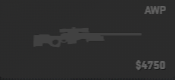
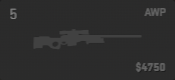
Auto buy * finished adding all items * caching loaded images so it will load faster for next time * fixes for checking already selected custom weapon * auto buy image is now not overlapped with tabcontrol * centered the radio buttons group * using native method for copying image region

diff --git a/src/CSAuto/GUIWindow.xaml b/src/CSAuto/GUIWindow.xaml
@@ -260,18 +260,18 @@
             </mahapps:MetroTabItem>
             <mahapps:MetroTabItem Header="menu_autobuy">
                 <Grid>
-                    <TabControl Panel.ZIndex="1" x:Name="AutoBuyTab" VerticalAlignment="Top" SelectionChanged="AutoBuyTab_SelectionChanged" mahapps:TabControlHelper.Underlined="SelectedTabItem" mahapps:TabControlHelper.UnderlinePlacement="Bottom">
+                    <TabControl Panel.ZIndex="1" x:Name="AutoBuyTab" VerticalAlignment="Top" SelectionChanged="AutoBuyTab_SelectionChanged" mahapps:TabControlHelper.Underlined="SelectedTabItem" mahapps:TabControlHelper.UnderlinePlacement="Bottom" Height="48">
                         <mahapps:MetroTabItem Header="team_ct"/>
                         <mahapps:MetroTabItem Header="team_t"/>
                     </TabControl>
-                    <Image Panel.ZIndex="0" x:Name="AutoBuyImage" MouseDown="AutoBuyImage_MouseDownAsync" HorizontalAlignment="Center" VerticalAlignment="Center"/>
+                    <Image Panel.ZIndex="0" x:Name="AutoBuyImage" MouseDown="AutoBuyImage_MouseDown" HorizontalAlignment="Center" VerticalAlignment="Center" Margin="0,48,0,0"/>
                     <Grid x:Name="BuyItemProperties" Visibility="Hidden">
                         <StackPanel>
                             <TextBlock x:Name="BuyItemName" Text="Name"></TextBlock>
                             <CheckBox  x:Name="BuyItemEnabledCheckBox" Content="text_enabled"></CheckBox>
                             <TextBlock Text="text_itempriority"></TextBlock>
                             <mahapps:NumericUpDown x:Name="BuyItemPriority"/>
-                            <StackPanel Orientation="Vertical" x:Name="SelectedCustomItemPropery" Visibility="Hidden">
+                            <StackPanel Orientation="Vertical" x:Name="SelectedCustomItemPropery" Visibility="Hidden" HorizontalAlignment="Center" Margin="0,15,0,0">
                                 <TextBlock Text="text_selecteditem"></TextBlock>
                                 <StackPanel Margin="15,0,0,0"/>
                             </StackPanel>

diff --git a/src/CSAuto/AutoBuyMenu.cs b/src/CSAuto/AutoBuyMenu.cs
@@ -5,13 +5,9 @@ using Murky.Utils.CSGO;
 using Newtonsoft.Json;
 using System;
 using System.Collections.Generic;
-using System.Collections.ObjectModel;
 using System.Drawing;
-using System.Drawing.Imaging;
 using System.IO;
 using System.Linq;
-using System.Text;
-using System.Threading.Tasks;
 using System.Windows.Interop;
 using System.Windows.Media.Imaging;
 
@@ -133,10 +129,32 @@ namespace CSAuto
             P90,
             MP9,
             MAC10,
-            SawedOff
+            SawedOff,
+            Famas,
+            GalilAR,
+            M4A4,
+            M4A1S,
+            AK47,
+            AUG,
+            SG553,
+            SSG08,
+            AWP,
+            SCAR20,
+            G3SG1
         };
         private readonly Dictionary<NAMES, object[]> weaponsInfo = new Dictionary<NAMES, object[]>()
         {
+            { NAMES.G3SG1,new object[] { "weapon_g3sg1", 5000 } },
+            { NAMES.SCAR20,new object[] { "weapon_scar20", 5000 } },
+            { NAMES.AWP,new object[] { "weapon_awp", 4750 } },
+            { NAMES.SSG08,new object[] { "weapon_ssg08", 1700 } },
+            { NAMES.SG553,new object[] { "weapon_sg556", 3000 } },
+            { NAMES.AUG,new object[] { "weapon_aug", 3300 } },
+            { NAMES.AK47,new object[] { "weapon_ak47", 2700 } },
+            { NAMES.M4A1S,new object[] { "weapon_m4a1_silencer", 2900 } },
+            { NAMES.M4A4,new object[] { "weapon_m4a1", 3100 } },
+            { NAMES.GalilAR,new object[] { "weapon_galilar", 1800 } },
+            { NAMES.Famas,new object[] { "weapon_famas", 2050 } },
             { NAMES.SawedOff,new object[] { "weapon_sawedoff", 1100 } },
             { NAMES.MAC10,new object[] { "weapon_mac_10", 1050 } },
             { NAMES.R8Revolver,new object[] { "weapon_revolver", 600 } },
@@ -185,16 +203,6 @@ namespace CSAuto
                     tItems.Add(item);
                 ctItems.Add(item.Copy());
             }
-            //Grenades
-            for (int i = 0; i < 5; i++)
-            {
-                BuyItem item = new BuyItem(((NAMES)5+i),
-                    new Point(692 + OFFSET_X, 43 + OFFSET_Y * i + (SMALL_ITEM_SIZE.Height * i)), SMALL_ITEM_SIZE
-                    ,true,
-                    $"5{i + 1}");
-                tItems.Add(item);
-                ctItems.Add(item.Copy());
-            }
             // Pistols
             BuyItem usp_s = new BuyItem(NAMES.USP_S,
                    new Point(152 + OFFSET_X, 43), SMALL_ITEM_SIZE,false, "21");
@@ -220,6 +228,26 @@ namespace CSAuto
                     {  NAMES.None, NAMES.Nova,NAMES.MP7,NAMES.SawedOff,NAMES.Negev,NAMES.PPBizon,NAMES.UMP45,NAMES.M249,NAMES.XM1014,NAMES.MP5SD,NAMES.P90,NAMES.MAC10 });
                 tCustomItems.Add(item);
                 ctCustomItems.Add(item.Copy());
+            }
+            //Rifles
+            for (int i = 0; i < 5; i++)
+            {
+                CustomBuyItem item = new CustomBuyItem(NAMES.None,
+                    new Point(490 + OFFSET_X, 43 + OFFSET_Y * i + (RIFLES_ITEM_SIZE.Height * i)), RIFLES_ITEM_SIZE, $"4{i + 1}", new NAMES[]
+                    {  NAMES.None, NAMES.Famas,NAMES.M4A4,NAMES.M4A1S,NAMES.AUG,NAMES.SSG08,NAMES.SCAR20,NAMES.AWP }, new NAMES[]
+                    {  NAMES.None, NAMES.GalilAR,NAMES.AK47,NAMES.SG553,NAMES.SSG08,NAMES.G3SG1,NAMES.AWP });
+                tCustomItems.Add(item);
+                ctCustomItems.Add(item.Copy());
+            }
+            //Grenades
+            for (int i = 0; i < 5; i++)
+            {
+                BuyItem item = new BuyItem(((NAMES)5 + i),
+                    new Point(692 + OFFSET_X, 43 + OFFSET_Y * i + (SMALL_ITEM_SIZE.Height * i)), SMALL_ITEM_SIZE
+                    , true,
+                    $"5{i + 1}");
+                tItems.Add(item);
+                ctItems.Add(item.Copy());
             }
         }
         public BuyItem GetItem(Point place,bool isCt)
@@ -316,13 +344,13 @@ namespace CSAuto
                 }
             }
         }
-        public void CopyRegionIntoImage(Bitmap srcBitmap, RectangleF srcRegion, ref Bitmap destBitmap, RectangleF destRegion)
-        {
-            using (Graphics grD = Graphics.FromImage(destBitmap))
-            {
-                grD.DrawImage(srcBitmap, destRegion, srcRegion, GraphicsUnit.Pixel);
-            }
-        }
+        //public void CopyRegionIntoImage(Bitmap srcBitmap, RectangleF srcRegion, ref Bitmap destBitmap, RectangleF destRegion)
+        //{
+        //    using (Graphics grD = Graphics.FromImage(destBitmap))
+        //    {
+        //        grD.DrawImage(srcBitmap, destRegion, srcRegion, GraphicsUnit.Pixel);
+        //    }
+        //}
         private void LoadCustomImages(List<CustomBuyItem> customItems, Bitmap copy)
         {
             foreach (CustomBuyItem customItem in customItems)
@@ -333,18 +361,27 @@ namespace CSAuto
                     {
                         using (Bitmap customImg = BitmapImage2Bitmap(ImageLoader.LoadBitmapImage($"weapon_{customItem.Name.ToString().ToLower()}.png")))
                         {
+                            
                             GraphicsUnit units = GraphicsUnit.Pixel;
-                            RectangleF destReg = new RectangleF()
+                            Rectangle destReg = new Rectangle()
                             {
                                 Width = customItem.Size.Width - 25,
                                 Height = customItem.Size.Height,
                                 X = customItem.Position.X + 25,
                                 Y = customItem.Position.Y
                             };
-                            RectangleF srcReg = customImg.GetBounds(ref units);
+                            RectangleF srcRegF = customImg.GetBounds(ref units);
+                            Rectangle srcReg = new Rectangle()
+                            {
+                                Width = (int)srcRegF.Size.Width,
+                                Height = (int)srcRegF.Size.Height,
+                                X = (int)srcRegF.X,
+                                Y = (int)srcRegF.Y,
+                            };
                             srcReg.Width -= 25;
                             srcReg.X += 25;
-                            CopyRegionIntoImage(customImg, srcReg, ref copy, destReg);
+                            NativeMethods.CopyRegionIntoImage(customImg, srcReg, ref copy, destReg);
+                            //CopyRegionIntoImage(customImg, srcReg, ref copy, destReg);
                         }
                     }
                     catch
@@ -352,7 +389,7 @@ namespace CSAuto
                         Log.WriteLine($"weapon_{customItem.Name.ToString().ToLower()}.png isn't found");
                     }
                 }
-            }
+            } 
         }
 
         private BitmapSource Bitmap2BitmapImage(Bitmap bitmap)

diff --git a/src/CSAuto/GUIWindow.xaml.cs b/src/CSAuto/GUIWindow.xaml.cs
@@ -438,7 +438,7 @@ namespace CSAuto
             }
             if (CategoriesTabControl.SelectedItem != null && CategoriesTabControl.SelectedIndex == 4)
             {
-                AutoBuyImage.Source = main.current.buyMenu.GetImage(isCt);
+               UpdateImage();
             }
         }
 
@@ -564,7 +564,7 @@ namespace CSAuto
             Process.Start("https://discord.gg/57ZEVZgm5W");
         }
 
-        private async void AutoBuyImage_MouseDownAsync(object sender, System.Windows.Input.MouseButtonEventArgs e)
+        private void AutoBuyImage_MouseDown(object sender, System.Windows.Input.MouseButtonEventArgs e)
         {
             if (e.ChangedButton == System.Windows.Input.MouseButton.Left && e.LeftButton == System.Windows.Input.MouseButtonState.Pressed)
             {
@@ -573,7 +573,7 @@ namespace CSAuto
                 double x_ratio = size.Width / main.current.buyMenu.size.Width;
                 double y_ratio = size.Height / main.current.buyMenu.size.Height;
                 BuyItem item = main.current.buyMenu.GetItem(new Point(pos.X / x_ratio, pos.Y / y_ratio), isCt);
-                if(item != null)
+                if (item != null)
                 {
                     selectedItem = item;
                     SelectedCustomItemPropery.Visibility = Visibility.Hidden;
@@ -585,8 +585,8 @@ namespace CSAuto
                     BuyItemEnabledCheckBox.IsChecked = item.IsEnabled();
                     CheckIsCustom(item);
                 }
-                else
-                    await ShowMessage("title_error", "error_notimplemented", MessageDialogStyle.Affirmative);         
+                //else
+                //    await ShowMessage("title_error", "error_notimplemented", MessageDialogStyle.Affirmative);         
             }
         }
 
@@ -658,7 +658,7 @@ namespace CSAuto
                         }
                     }
                     AutoBuyMenu.NAMES[] options = isCt ? item.GetCTOptions() : item.GetTOptions();
-                    if (!main.current.buyMenu.ContainsCustom(isCt, customSelectedItem.GetCTOptions()[selectedIndex]))
+                    if (options[selectedIndex] == AutoBuyMenu.NAMES.None || !main.current.buyMenu.ContainsCustom(isCt, options[selectedIndex]))
                         item.SetName(options[selectedIndex]);
                     else if(item.GetName() != options[selectedIndex])
                         await ShowMessage("title_error", "error_alreadycontainscustom", MessageDialogStyle.Affirmative);
@@ -671,6 +671,9 @@ namespace CSAuto
 
         private void UpdateImage()
         {
+            //BitmapSource src = main.current.buyMenu.GetImage(isCt);
+            //src.Freeze();
+            //await Dispatcher.InvokeAsync(() => { AutoBuyImage.Source = src; });
             AutoBuyImage.Source = main.current.buyMenu.GetImage(isCt);
             NativeMethods.OptimizeMemory();
         }
@@ -679,7 +682,6 @@ namespace CSAuto
         {
             TabControl control = (TabControl)sender;
             isCt = control.SelectedIndex == 0;
-            UpdateImage();
         }
     }
 }

diff --git a/src/CSAuto/Native/NativeMethods.cs b/src/CSAuto/Native/NativeMethods.cs
@@ -188,5 +188,38 @@ namespace CSAuto
             }
             return res;
         }
+        public static unsafe void CopyRegionIntoImage(Bitmap srcBitmap, Rectangle srcRegion, ref Bitmap destBitmap, Rectangle destRegion)
+        {
+            const int pixelSize = 4; // 32 bits per pixel
+
+            BitmapData targetData = null,sourceData = null;
+            try
+            {
+                targetData = destBitmap.LockBits(
+                    new Rectangle(0, 0, destBitmap.Width, destBitmap.Height),
+                    ImageLockMode.WriteOnly, PixelFormat.Format32bppArgb);
+                sourceData = srcBitmap.LockBits(
+                    new Rectangle(0, 0, srcBitmap.Width, srcBitmap.Height),
+                    ImageLockMode.WriteOnly, PixelFormat.Format32bppArgb);
+                for (int y = srcRegion.Y; y < srcRegion.Height + srcRegion.Y; y++)
+                {
+                    for (int x = srcRegion.X; x < srcRegion.Width + srcRegion.X; x++)
+                    {
+                        byte* targetRow = (byte*)targetData.Scan0 + ((destRegion.Y + y - srcRegion.Y) * targetData.Stride);
+                        byte* source = (byte*)sourceData.Scan0 + (y * sourceData.Stride);
+
+                        targetRow[(x + destRegion.X - srcRegion.X) * pixelSize + 0] = source[x * pixelSize + 0];
+                        targetRow[(x + destRegion.X - srcRegion.X) * pixelSize + 1] = source[x * pixelSize + 1];
+                        targetRow[(x + destRegion.X - srcRegion.X) * pixelSize + 2] = source[x * pixelSize + 2];
+                        targetRow[(x + destRegion.X - srcRegion.X) * pixelSize + 3] = source[x * pixelSize + 3];
+                    }
+                }
+            }
+            finally
+            {
+                destBitmap.UnlockBits(targetData);
+                srcBitmap.UnlockBits(sourceData);
+            }
+        }
     }
 }

diff --git a/src/CSAuto/ImageLoader.cs b/src/CSAuto/ImageLoader.cs
@@ -15,8 +15,9 @@ namespace CSAuto
 {
     public static class ImageLoader
     {
-        static string IMAGES_PATH = Log.WorkPath + "\\resource\\images.pac";
-        static string fileData = App.Unzip(File.ReadAllBytes(IMAGES_PATH));
+        static readonly string IMAGES_PATH = Log.WorkPath + "\\resource\\images.pac";
+        static readonly string fileData = App.Unzip(File.ReadAllBytes(IMAGES_PATH));
+        static readonly Dictionary<string,BitmapImage> cachedImages = new Dictionary<string,BitmapImage>();
         public static BitmapImage Base64StringToBitmap(string base64String)
         {
             byte[] byteBuffer = Convert.FromBase64String(base64String);
@@ -29,21 +30,21 @@ namespace CSAuto
             bitmapImage.CacheOption = BitmapCacheOption.OnLoad;
             bitmapImage.EndInit();
 
-            memoryStream = null;
-            byteBuffer = null;
-
             return bitmapImage;
         }
         public static BitmapImage LoadBitmapImage(string image)
         {
-
             string actualImageName = $"[{image.ToUpper()}]";
+            if (cachedImages.ContainsKey(actualImageName))
+                return cachedImages[actualImageName];
             if (!fileData.Contains(actualImageName))
                 return null;
             string imageData = fileData.Split(new string[] { actualImageName }, StringSplitOptions.None)[1].
                 Split(new string[] { "[END]" }, StringSplitOptions.None)[0];
 
-            return Base64StringToBitmap(imageData);
+            BitmapImage res = Base64StringToBitmap(imageData);
+            cachedImages[actualImageName] = res;
+            return res;
         }
     }
 }

diff --git a/src/CSAuto/MainApp.xaml.cs b/src/CSAuto/MainApp.xaml.cs
@@ -80,7 +80,7 @@ namespace CSAuto
         #region Constants
         public const string VER = "2.0.8";
         public const string FULL_VER = VER + (DEBUG_REVISION == "" ? "" : " REV "+ DEBUG_REVISION);
-        const string DEBUG_REVISION = "6";
+        const string DEBUG_REVISION = "8";
         const string GAME_PROCCES_NAME = "cs2";
         const string GAME_WINDOW_NAME = "Counter-Strike 2";
         const string GAME_CLASS_NAME = "SDL_app";
